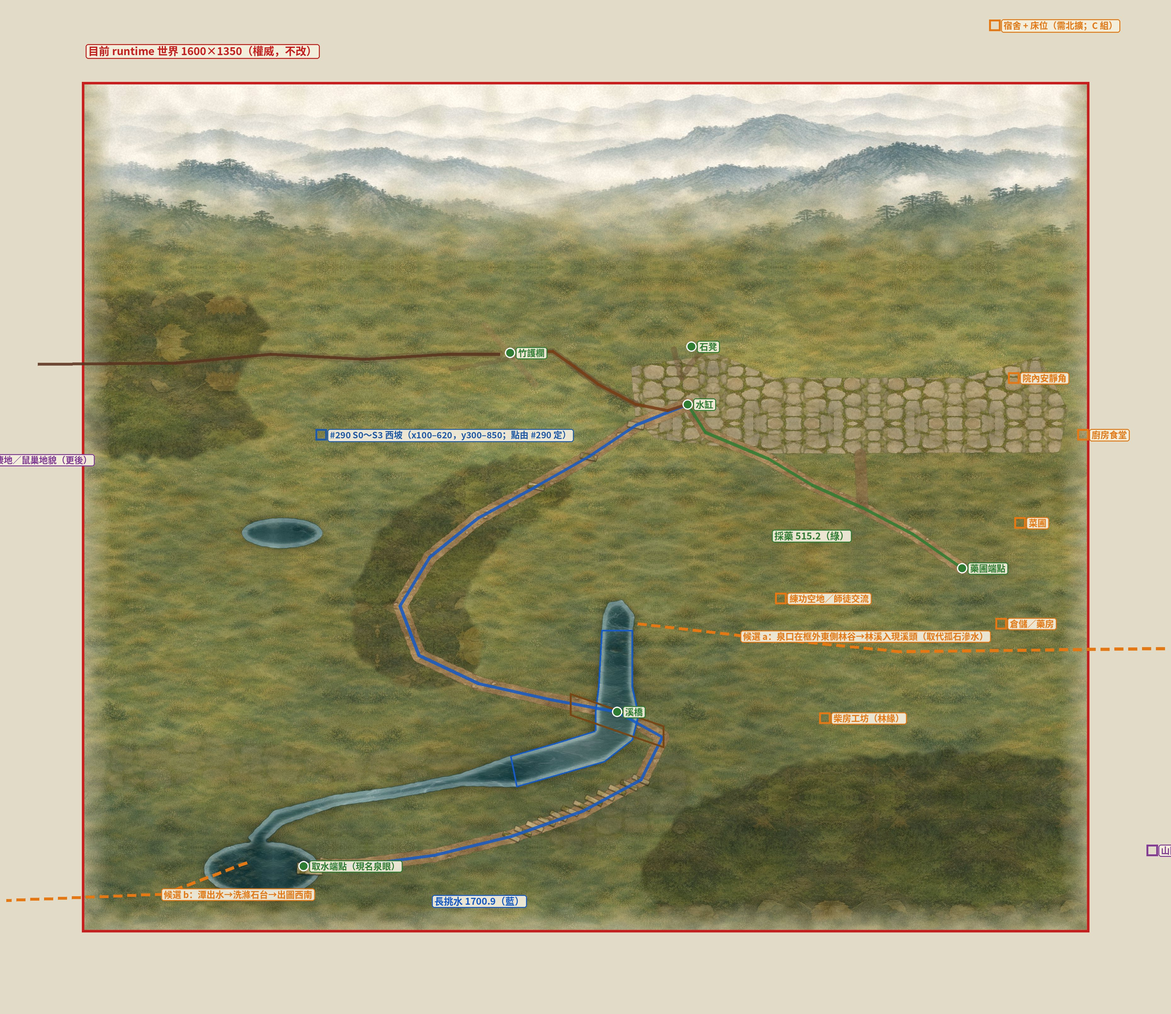
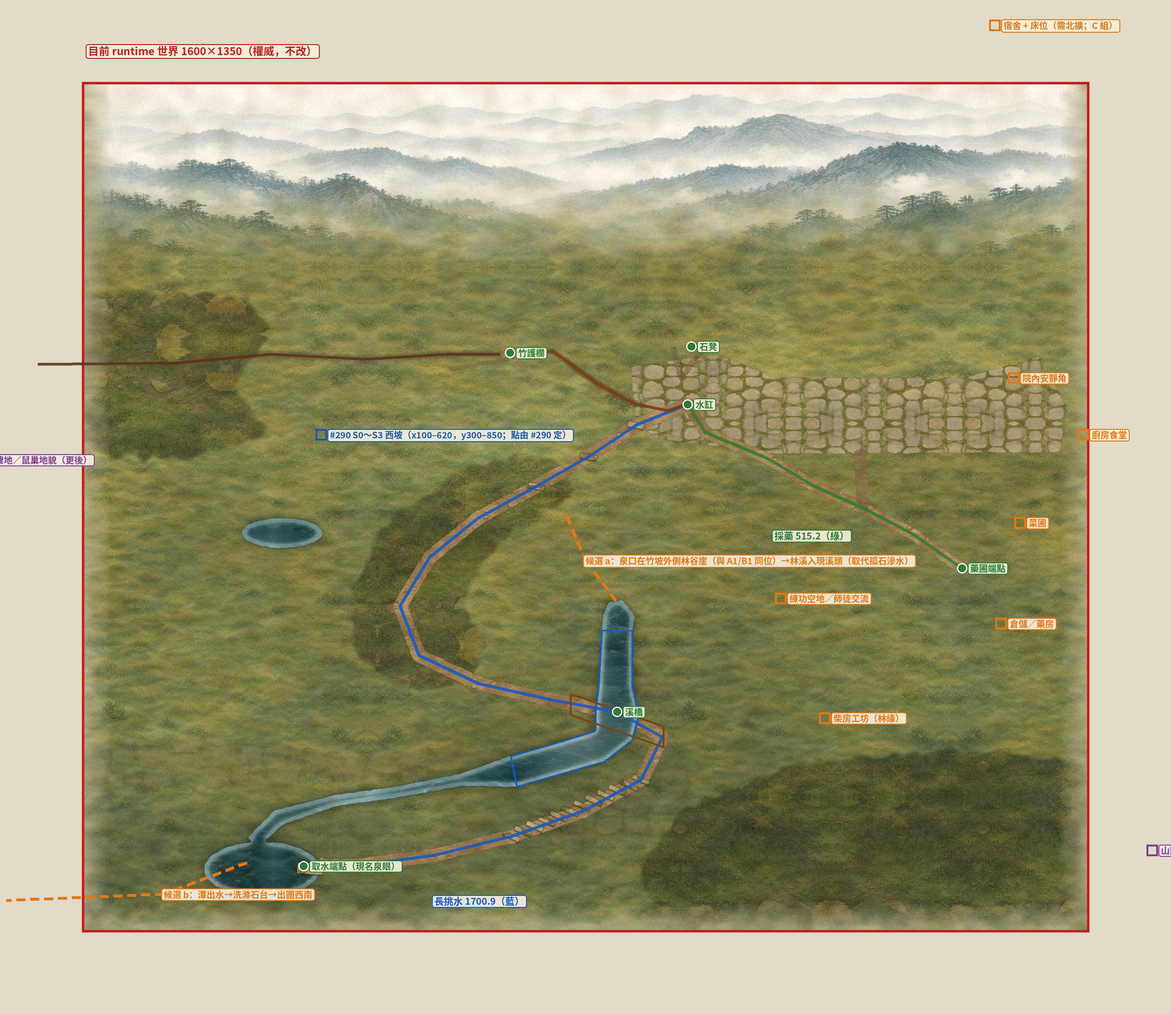
design(scene02): single continuous stream A1 v2, unified spring, gray-tile dorm, consistent storyboard costume
Refs #182

Changed region(s): [[0.4989, 0.528, 0.7796, 0.5901], [0.6237, 0.6211, 0.8731, 0.6522]]

diff --git a/sect-chronicle/experiments/water-carry/design/art182-scene02/README.md b/sect-chronicle/experiments/water-carry/design/art182-scene02/README.md
@@ -8,12 +8,12 @@
 
 | 組 | 檔案 | 內容 |
 |---|---|---|
-| A 主景 | `A1-panorama-master.jpg` | 完成的山居水彩全景主稿（新構圖：泉口崖→林溪→竹林→溪橋→谷底潭→下游；院落台地、藥圃、候選宿舍／工坊／練功地、山門與下山村路、遠村） |
+| A 主景 | `A1-panorama-master.jpg` | 完成的山居水彩全景主稿（v2 單一連續溪：泉口崖→林溪→唯一溪橋→同溪擴成谷底潭→潭出水下緣出圖；宿舍灰瓦木構；院落台地、藥圃、候選宿舍／工坊／練功地、山門與下山村路、遠村） |
 | A | `A2-layout-annotated.jpg` | 總配置：28 點，各標現有／已批待做／候選預留／純景觀／更後＋issue/BL；紅虛線＝目前 runtime 1600×1350 約略範圍 |
-| B 水地動線 | `B1-waterflow-annotated.jpg` | 流向箭頭、①～⑦高低序、取水站位、側渠與下游洗滌候選、泉口放大、示意剖面 |
+| B 水地動線 | `B1-waterflow-annotated.jpg` | 流向箭頭、①～⑥高低序、取水站位、潭出水洗滌候選、泉口放大、示意剖面 |
 | B | `B2-current-overlay.jpg` | 現況疊圖：D37 烘焙地面＋權威路線（挑水 1700.9、採藥 515.2、護院、野豬來路）、溪／橋板；橘虛線＝候選差異，框外落位 |
 | C 床房 | `C1-dorm-three-stages.jpg` | 同尺度一床→加 bed-B→擴房；門→通道、床側站位、可選床牌 |
-| D 分鏡 | `D1-sb-water.jpg`／`D2-sb-patrol.jpg`／`D3-sb-dorm.jpg` | 長路挑水、巡山進退、院落入房各三格 |
+| D 分鏡 | `D1-sb-water.jpg`／`D2-sb-patrol.jpg`／`D3-sb-dorm.jpg` | 長路挑水、巡山進退、院落入房各三格（同一主角服裝：靛藍頭巾＋短衫＋綁腿） |
 
 `raw/` 為生成原圖（未標註）；`source/current-geometry.json` 是從 D37（PR289）`dump-geometry.mjs` 匯出的權威幾何快照，只讀。
 
@@ -28,14 +28,14 @@
 
 | 編號 | 現況 | 候選 | 理由 | 影響 |
 |---|---|---|---|---|
-| a | 溪頭 (850,826) 一塊石縫滲水 | 泉口移到框外東側林谷，林溪從東緣入現溪頭 | 水源可讀、不穿過挑水／採藥／巡山路 | 只加視覺水道；路長不變 |
+| a | 溪頭 (850,826) 一塊石縫滲水 | 泉口設在竹坡外側林谷崖（約 (770,690)，與 A1/B1 同位），短林溪入現溪頭 | 水源可讀、不穿過挑水／採藥／巡山路 | 只加視覺水道；路長不變 |
 | b | 潭無出口 | 潭出水→洗滌石台→出圖西南 | 有出口、上下游分工 | 視覺；取水端點不動 |
 | c | 名稱「泉眼」 | 「谷底取水潭」，新泉口另名 | 名稱跟地貌一致 | 只改顯示文字，需 PO 決定 |
-| d | 主稿：潭在主溪側 | 由橋上游側渠引水入潭 | 主稿此處引水交代不清（見缺口） | 純圖修正 |
+| d | 主稿 v1：潭在主溪側、多一座便橋 | v2 已重繪：主溪過橋後直接擴成潭，無側渠、無第二座橋 | 水系一條線可讀 | 純圖修正（已完成） |
 | e | 世界北緣為遠山帶 | 宿舍／廚房需北擴或院東落位 | 舊框不硬塞 | 擴圖屬未來決策 |
-| f | 山門、村路不在框內 | 框外東南山門→下山村路 | 堂弟住村偶爾上山、訪客 | 更後 |
+| f | 山門、村路不在框內 | 院東山門→下山村路往東出框 | 堂弟住村偶爾上山、訪客 | 更後 |
 
-藝術主稿是透視構圖，左右方位與 runtime 不逐點對應（主稿泉口在左上、B2 候選 a 在東側）；**落位以 B2 為準**，主稿只定風格、水系敘事與鄰接關係。
+藝術主稿是透視構圖，左右方位與 runtime 不逐點對應（三圖統一：泉口在「竹坡外側、溪橋上游林谷崖」；主稿畫在左上、B2 候選 a 落在 (770,690)）；**落位以 B2 為準**，主稿只定風格、水系敘事與鄰接關係。
 
 ## Backlog 對應
 
@@ -51,7 +51,7 @@
 | 聚落人物 | 山門、訪客／求醫等候、下山村路 | 更後 | #105 |
 | | 院內安靜角（女孩生活空間參照）、堂弟住村 | 候選預留 | 僅空間參照，不加 AI／canon |
 | 外圍 | 西林棲地／可發現鼠巢地貌、領地擴建 | 更後 | #219／#104 |
-| 景觀 | 遠山、山下村落、上游小便橋 | 純景觀 | — |
+| 景觀 | 遠山、山下村落 | 純景觀 | — |
 
 ## 宿舍（C 組）
 
@@ -71,9 +71,9 @@
 
 ## 已知缺陷／缺口（自校）
 
-- 主稿取水潭與主溪的連接交代不清（潭像在溪側另一水體）；以差異 d 標註，未重畫。
-- 主稿多一座上游小便橋，標為純景觀可刪。
-- 廚房、菜圃、倉儲在主稿只有落位標記，未畫獨立建物；候選宿舍外觀（紅柱小屋）偏祠堂風，需後續統一。
-- 分鏡人物服裝／髮帶三組不完全一致；D2 第 2 格的野豬洞只是氣氛，不代表已批巢穴／生成點。
+- 已修（v2，2026-10-24）：取水潭改為主溪橋下游擴成、潭出水下緣出圖；泉口三圖同位；上游兩座小便橋以局部修圖移除；宿舍改灰瓦木構白灰牆；D1–D3 重繪為同一主角服裝。
+- 廚房、菜圃、倉儲在主稿只有落位標記，未畫獨立建物。
+- D1 第 3 格水流方向畫成潭出水小瀑，非「入潭」；D2 第 2 格野豬洞只是氣氛，不代表已批巢穴／生成點；分鏡無師兄角色，師兄服裝未定。
+- 主稿移除便橋處是局部複製修補，放大可見輕微紋理重複；原便橋處小路在溪岸止步。
 - 未另畫堂弟與女孩的角色參照；只作空間文字提示。
 - 生成圖 1280×720，標註版放大 2×，細節偏軟。
